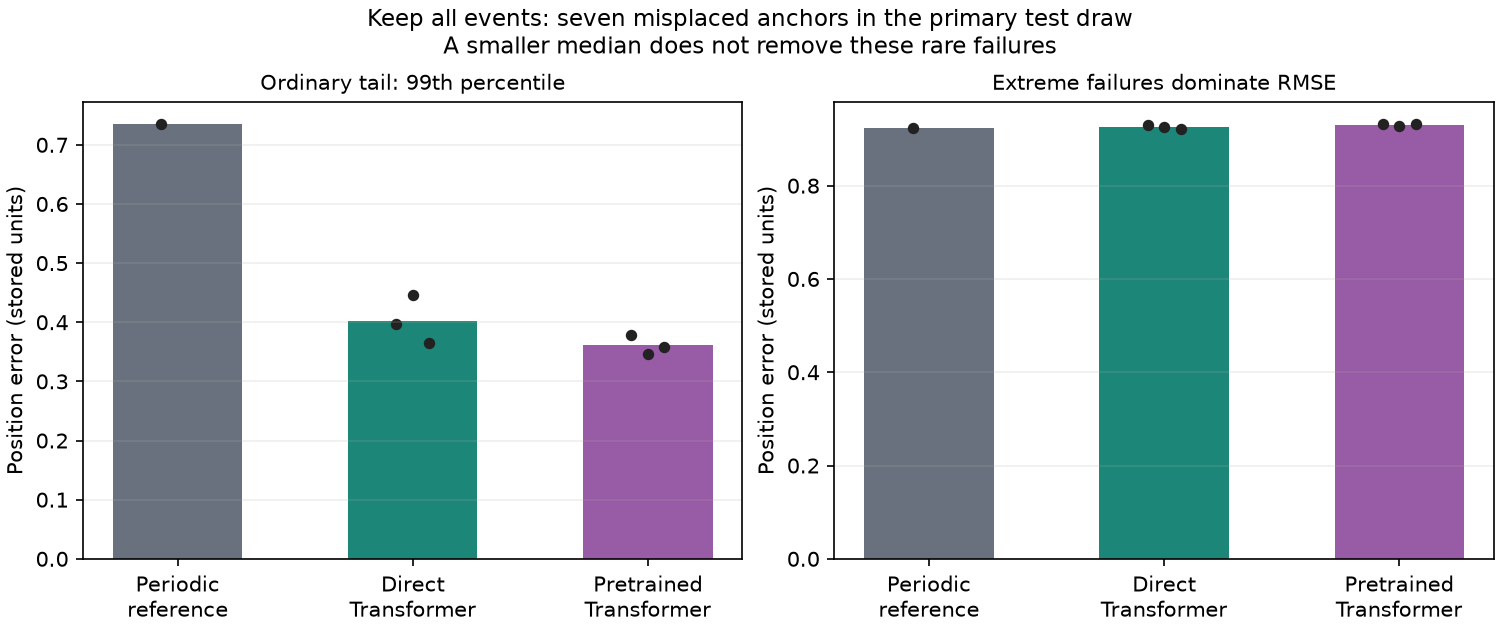
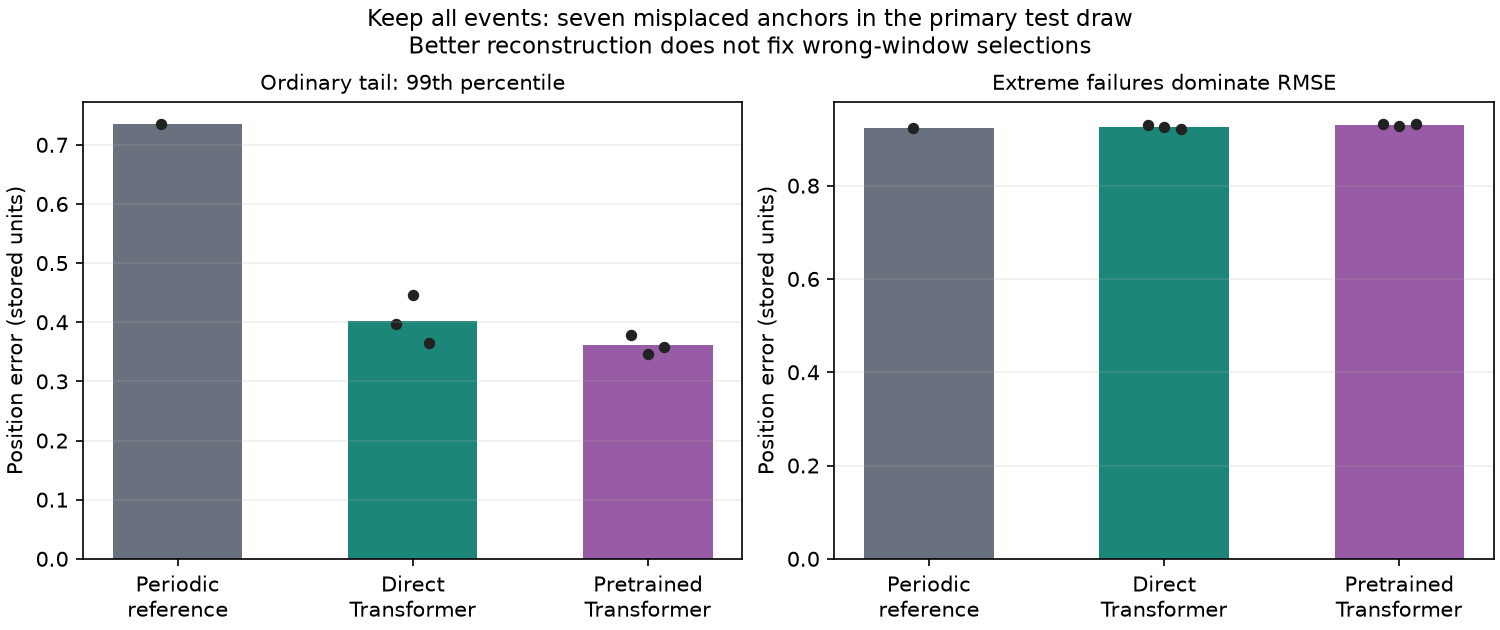
Clarify evaluation metrics and add supplementary energy median analysis

Changed region(s): [[0.276, 0.0603, 0.736, 0.0905]]

diff --git a/scripts/review_final.py b/scripts/review_final.py
@@ -158,7 +158,7 @@ def review(run, freeze_path, validation_path, output):
         ax.grid(axis="y", alpha=0.2)
     fig.suptitle(
         "Keep all events: seven misplaced anchors in the primary test draw\n"
-        "A smaller median does not remove these rare failures",
+        "Better reconstruction does not fix wrong-window selections",
         fontsize=11,
     )
     fig.savefig(output / "tails.png", dpi=150)
@@ -171,9 +171,66 @@ def review(run, freeze_path, validation_path, output):
     )
 
 
+def energy_median_review(run, freeze_path):
+    """Post-hoc descriptive metric check on fixed predictions; never select a model."""
+    summary = json.loads((run / "summary.json").read_text())
+    frozen = json.loads(freeze_path.read_text())
+    if not summary["complete"] or not summary["test_used"]:
+        raise ValueError("Need the completed held-out evaluation")
+    if summary["frozen_protocol_sha256"] != transport.sha(freeze_path):
+        raise ValueError("Frozen protocol fingerprint differs")
+    rows = []
+    common_ids, common_targets = None, None
+    for name, record in summary["records"].items():
+        if record["task"] not in ("energy", "joint"):
+            continue
+        path = run / "predictions" / (name + ".npz")
+        if transport.sha(path) != record["sha256"]:
+            raise ValueError("Prediction fingerprint differs")
+        with np.load(path, allow_pickle=False) as arrays:
+            ids = arrays["source_ids"]
+            targets = arrays["targets"].astype(np.float64)
+            predictions = arrays["predictions"].astype(np.float64)
+        if common_ids is None:
+            common_ids, common_targets = ids.copy(), targets.copy()
+        if not np.array_equal(ids, common_ids) or not np.array_equal(targets, common_targets):
+            raise ValueError("Event ordering or targets differ")
+        if transport.digest(ids.tobytes()) != summary["source_ids_sha256"]:
+            raise ValueError("Test identifiers differ")
+        if len(ids) != frozen["counts"]["test"]:
+            raise ValueError("Test count differs")
+        metrics = data.aggregate_metrics(targets, predictions, record["task"])
+        if metrics != record["metrics"]:
+            raise ValueError("Original metrics do not reproduce")
+        error = np.abs((predictions[:, 0] - targets[:, 0]) / targets[:, 0])
+        rows.append(dict(
+            name=name, family=record["family"], regime=record["regime"],
+            training_seed=record.get("training_seed"), noise_seed=record["noise_seed"],
+            prediction_sha256=record["sha256"],
+            mean_absolute_relative_error_pct=float(error.mean() * 100),
+            median_absolute_relative_error_pct=float(np.median(error) * 100),
+        ))
+    return dict(
+        analysis="Post-hoc energy median, no retraining or model selection",
+        formula="100 * median(abs((prediction - truth) / truth))",
+        count=len(common_ids), frozen_protocol_sha256=transport.sha(freeze_path),
+        source_summary_sha256=transport.sha(run / "summary.json"),
+        source_ids_sha256=summary["source_ids_sha256"], records=rows,
+    )
+
+
 if __name__ == "__main__":
     p = argparse.ArgumentParser(description=__doc__)
-    for key in ("run", "freeze", "validation", "output"):
+    for key in ("run", "freeze"):
         p.add_argument("--" + key, type=Path, required=True)
+    for key in ("validation", "output"):
+        p.add_argument("--" + key, type=Path)
+    p.add_argument("--energy-median-only", action="store_true",
+                   help="Print supplementary metrics without rewriting frozen reports")
     a = p.parse_args()
-    review(a.run, a.freeze, a.validation, a.output)
+    if a.energy_median_only:
+        print(json.dumps(energy_median_review(a.run, a.freeze), indent=2, allow_nan=False))
+    else:
+        if a.validation is None or a.output is None:
+            p.error("--validation and --output are required for the full review")
+        review(a.run, a.freeze, a.validation, a.output)

diff --git a/README.md b/README.md
@@ -2,7 +2,7 @@
 
 Reconstruct a photon's energy and impact position from simulated calorimeter crystals. Compare small CNNs and Transformers, then test whether one masked-pretrained encoder helps when fine-tuned separately for the two tasks.
 
-**Main finding:** pretraining improves position reconstruction under the assumed noisy measurement conditions. Energy gains are less consistent, and a strong classical calibration remains better on average.
+**Main finding:** pretraining improves typical position accuracy under the assumed noisy measurement conditions, but does not reduce the rare large errors or improve position RMSE against the reference. Energy gains depend on the metric, and a strong classical calibration remains better on average.
 
 ## Explore the study
 
@@ -32,21 +32,23 @@ Each downstream model specializes in energy or position. Networks receive the sa
 
 The main condition uses noise plus a 50 MeV cell cut on **5,935 previously reserved events**. Model selection uses validation only; settings, references and weights were frozen before test evaluation. Neural entries are means of three separately trained models' scores, not an ensemble.
 
-| Estimator | Energy MARE (%) | Median position error |
-| --- | ---: | ---: |
-| Affine energy / periodic barycenter | 3.717 | 0.09576 |
-| Quadratic energy calibration | **2.104** | n/a |
-| Local CNN specialists | 4.188 | 0.10577 |
-| Local Transformer specialists | 2.554 | 0.07040 |
-| Shared pretraining, separate fine-tunings | 2.389 | **0.04643** |
+| Estimator | Energy MARE (%) | Position median | Position RMSE |
+| --- | ---: | ---: | ---: |
+| Affine energy / periodic barycenter | 3.717 | 0.09576 | **0.92311** |
+| Quadratic energy calibration | **2.104** | n/a | n/a |
+| Local CNN specialists | 4.188 | 0.10577 | 0.93405 |
+| Local Transformer specialists | 2.554 | 0.07040 | 0.92632 |
+| Shared pretraining, separate fine-tunings | 2.389 | **0.04643** | 0.93053 |
 
-Lower is better. Energy MARE is mean absolute relative error; position uses stored coordinate units, not centimeters.
+Lower is better. Energy MARE averages the absolute percentage error across events. Position uses distances in stored coordinate units, not centimeters: the median describes a typical error, while RMSE gives more weight to large errors. These metrics were fixed before test evaluation. Each neural score is averaged across three training runs.
+
+Seven of the 5,935 events have a window misplaced by noise, causing very large position errors. They remain in the scores: the networks improve the median, but these failures erase the advantage when measured by RMSE.
 
 ![Held-out accuracy and individual training seeds](reports/final/accuracy.png)
 
-- **Position:** pretraining reduces the mean of the three position medians by 34.1% against the direct Transformer and 51.5% against the periodic reference. All three paired runs improve; one weak direct run contributes substantially to the mean gain.
-- **Energy:** the mean improves against direct training, but only one of three paired runs improves. The quadratic reference remains stronger on average.
-- **Cost:** position fine-tuning reaches the direct model's validation target in 2.03 active minutes versus 4.01 on average, with 7.21 minutes of additional pretraining. These are retrospective target crossings; all runs completed their full training schedules, so actual early-stopping savings were not demonstrated. The two studied tasks do not amortize pretraining.
+- **Position:** pretraining lowers the median error in all three runs, by 34.1% on average versus direct training. One weak direct run makes this average gain larger. RMSE remains slightly worse than the physical reference.
+- **Energy:** pretraining improves the mean error in only one of three runs. A supplementary analysis after the test shows a median-error improvement in all three (1.454% to 1.261% on average). The quadratic calibration remains better on both measures, with a 1.115% median error. The originally selected metric remains mean error.
+- **Training time:** position fine-tuning reaches the comparison accuracy sooner (2.03 vs 4.01 minutes), with 7.21 minutes of pretraining beforehand. All runs continued to their full budget, so actual compute savings were not demonstrated; the two tasks do not pay back pretraining.
 
 Individual seeds, controls, error tails and the conditional reuse calculation are collected in the [final report](reports/final/README.md).
 
@@ -54,4 +56,13 @@ Individual seeds, controls, error tails and the conditional reuse calculation ar
 
 The [public Maidannyk and Sahin dataset](https://zenodo.org/records/18929909), licensed CC BY 4.0, contains simulated photons in a CMS-inspired crystal calorimeter. We retain 40,000 events: 28,118 train, 5,947 validation and 5,935 test. The original grid has 30 x 85 crystals; the selected method uses a 7 x 7 window around the measured maximum. Scales and classical calibrations are fitted on train only.
 
-This is a simplified detector-response study, not collision data or an exact reproduction of CaloFound. Noise worsens absolute reconstruction but gives learned position estimators an advantage over the matched reference. A noise maximum can select the wrong window: seven primary test events fail badly and remain in the scores. The median improvement does not remove these rare errors. One detector, two tasks and three training seeds do not establish a universal foundation model or real-detector transfer.
+This is an independent study on simulated detector deposits, not measurements from real collisions or a reproduction of existing work. [DeepCluster](https://link.springer.com/article/10.1140/epjc/s10052-024-12978-1) and [ClusTEX](https://arxiv.org/html/2603.18172v2) informed the local reconstruction and simplified noise/threshold choices. The [CaloFound presentation](https://indico.cern.ch/event/1655754/contributions/7178905/attachments/3338097/5981814/CaloFound_Mode.pdf), which explores reusable calorimeter representations, motivated the shared-pretraining question. Our architectures, references and bounded one-photon protocol differ from those works.
+
+## Possible next steps
+
+1. **Select the observed region more reliably.** Compare several candidate windows or an adaptive window, with a full-grid fallback when localization is uncertain. Prioritize the low-energy cases where noise can move the maximum away from the shower, and measure large-error counts as well as typical accuracy.
+2. **Strengthen detector realism.** Validate the noise and threshold assumptions against detector documentation and, ideally, calorimetry expertise. The current simplified response is not a validated model of the full CMS readout.
+3. **Compare reconstruction formulations fairly.** Compare full-grid inputs, local windows and learned corrections to a physical reference with matched information and comparable training/tuning budgets. Separate representation effects from architecture changes wherever possible.
+4. **Consolidate model comparisons.** Explore architecture and hyperparameter choices within a declared budget, then repeat with more independent training seeds.
+5. **Deepen the compute-cost comparison.** Compare direct training and fine-tuning at comparable accuracy, then estimate how many useful downstream tasks would repay the shared pretraining cost.
+6. **Scale data and compute.** Test whether larger training samples and greater compute budgets improve accuracy and the benefit of pretraining.

diff --git a/reports/final/README.md b/reports/final/README.md
@@ -1,6 +1,6 @@
 # Final evaluation: a reusable encoder helps position reconstruction
 
-**The held-out test confirms the position benefit of masked pretraining.** The pretrained Transformer reduces mean median-position error by 34.1% against direct training and 51.5% against the periodic reference. Energy is less convincing: the quadratic reference remains best on average.
+**The held-out test confirms the position benefit of masked pretraining.** The pretrained Transformer reduces mean median-position error by 34.1% against direct training and 51.5% against the periodic reference. Energy gains depend on the metric: the quadratic reference remains better on both mean and median error averaged across training seeds.
 
 ## What was frozen and evaluated
 
@@ -42,9 +42,51 @@ Noise worsens absolute reconstruction but changes the relative value of the esti
 
 ![Ordinary tails and rare failures](tails.png)
 
+Left: the 99th percentile is the position error below which 99% of events fall. Right: root mean squared error (RMSE) squares errors before averaging, making it sensitive to a few very large failures. Bars average the three trained-model scores and dots show individual seeds; the reference has no training-seed variation. These are aggregate error summaries, not images of individual showers.
+
 Seven of 5,935 primary-draw events (0.118%) have misplaced anchors and position errors above 10 stored units. Their true energies are 1.059-1.300 GeV: a large positive noise fluctuation can move the selected window away from a weak shower. The repeat draws contain three and four misplaced anchors. All events remain in the metrics.
 
-Pretrained position p99 improves to 0.347-0.379 versus 0.735 for the periodic reference. Yet its RMSE is 0.928-0.932 versus 0.923: rare large failures dominate squared error. The median gain does not solve candidate finding. Nonpositive energy predictions are likewise counted without clipping. Fixed energy-bin, index-boundary and tail results are retained in [results.json](results.json).
+Pretrained position p99 improves to 0.347-0.379 versus 0.735 for the periodic reference. Yet its RMSE is 0.928-0.932 versus 0.923: rare large failures dominate squared error. Better reconstruction within the selected window does not fix cases where that window misses the shower. Nonpositive energy predictions are likewise counted without clipping. Fixed energy-bin, index-boundary and tail results are retained in [results.json](results.json).
+
+
+## Supplementary energy median analysis
+
+This descriptive analysis was added after the test evaluation, on 29 September 2026, to check whether the energy conclusion depends on using a mean. It reuses all 5,935 events and the saved predictions, with no training, refitting, clipping or model selection. The original primary metric remains mean absolute relative error (MARE). The additional metric is `100 * median(abs((prediction - truth) / truth))`, not a signed-error median or a median energy.
+
+| Estimator | Mean absolute relative error (%) | Median absolute relative error (%) |
+| --- | ---: | ---: |
+| Affine calibration | 3.717 | 1.611 |
+| Quadratic calibration | 2.104 | 1.115 |
+| CNN | 4.188 | 2.669 |
+| Direct Transformer | 2.554 | 1.454 |
+| Pretrained Transformer | 2.389 | 1.261 |
+
+Neural entries average three separately calculated model scores. The main noise-plus-cut condition and first test-noise draw are unchanged.
+
+| Training seed | Direct median (%) | Pretrained median (%) | Relative median reduction |
+| --- | ---: | ---: | ---: |
+| 20260925 | 1.416 | 1.354 | 4.4% |
+| 20261001 | 1.519 | 1.128 | 25.8% |
+| 20261002 | 1.426 | 1.301 | 8.8% |
+
+Pretraining improves the energy median on all three training seeds, although mean error improves on only one. This supports a benefit for typical relative error; it does not establish an improvement across the whole error distribution. The quadratic reference has a lower median than all three neural runs on the primary draw. No additional significance claim is made from these point estimates.
+
+| Test-noise draw | Quadratic median (%) | Direct median (%) | Pretrained median (%) |
+| --- | ---: | ---: | ---: |
+| 20261010 | 1.115 | 1.454 | 1.261 |
+| 20261011 | 1.111 | 1.451 | 1.253 |
+| 20261012 | 1.133 | 1.461 | 1.279 |
+
+The median improves against direct training in all nine paired seed/noise comparisons; the quadratic reference remains best in each draw when comparing seed-average scores. These draws reuse the same events and models, so they are not nine independent trainings. Clean and noise-only controls were also checked: the quadratic median remains below the direct CNN and Transformer medians there. No pretrained controls exist for those regimes.
+
+Reproduce this supplementary calculation with the existing final-evaluation run directory (containing `summary.json` and `predictions/`):
+
+```bash
+uv run --locked --extra cpu python scripts/review_final.py \
+  --run "$FINAL_RUN" --freeze configs/final_evaluation.json --energy-median-only
+```
+
+The command prints all 56 energy-bearing records, including controls and references, after checking file hashes, event alignment and the original metrics. It leaves the frozen results and model-selection protocol unchanged.
 
 ## Adaptation time and reuse
 

diff --git a/docs/decisions.md b/docs/decisions.md
@@ -23,6 +23,8 @@ The [36-configuration validation review](../reports/experiments/methodology_revi
 
 Intermediate execution notebooks and dedicated utilities are not all included in this compact checkout. The decision history and aggregate evidence remain public; full earlier execution artifacts are preserved separately. Current code reproduces the selected method.
 
+A supplementary analysis added after test evaluation finds lower median relative energy error after pretraining on all three seeds (1.454% to 1.261% on average), despite the mixed result on mean error. The quadratic reference remains stronger on both seed-average measures. This refines the interpretation without changing the original metric or model selection; details are in the final report.
+
 ## Physical interpretation
 
 
